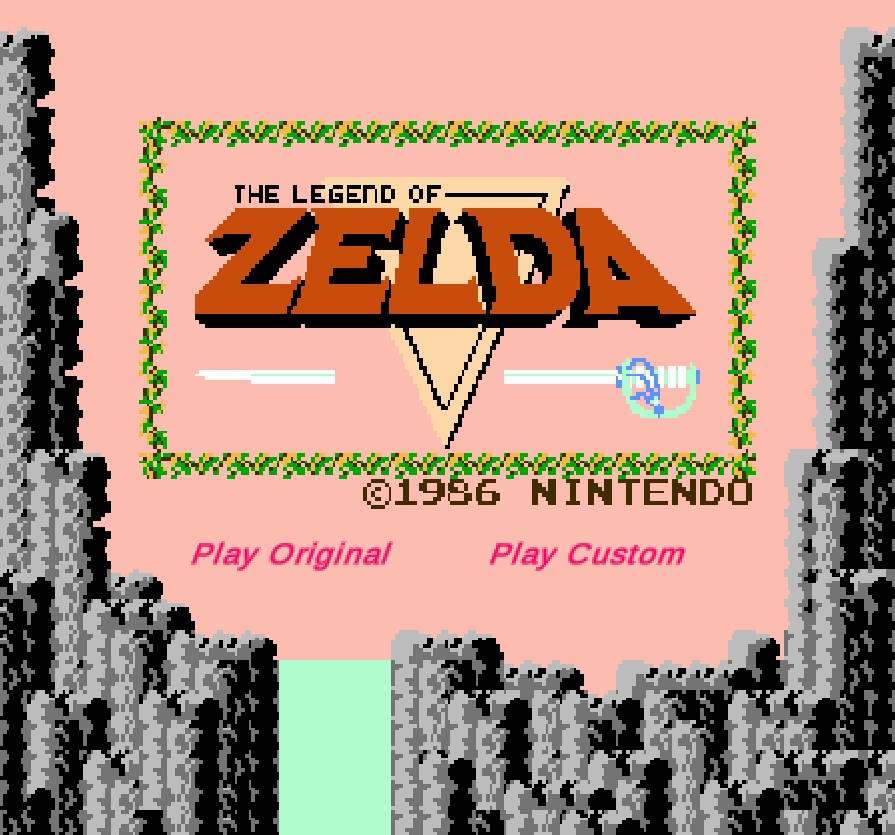
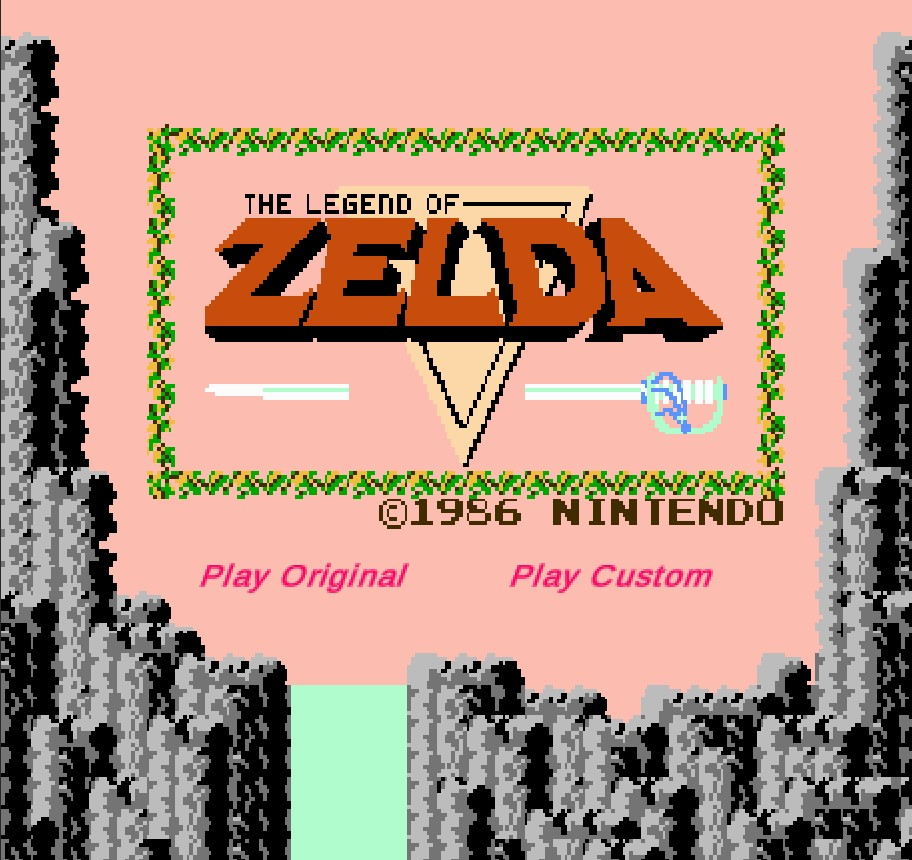
Added picture

diff --git a/legendofzelda.html b/legendofzelda.html
@@ -6,7 +6,7 @@
 -->
 <html>
 	<head>
-		<title>Generic - Hyperspace by HTML5 UP</title>
+		<title>Rushil Talla's Portfolio</title>
 		<meta charset="utf-8" />
 		<meta name="viewport" content="width=device-width, initial-scale=1, user-scalable=no" />
 		<link rel="stylesheet" href="assets/css/main.css" />
@@ -35,7 +35,7 @@
 					<section id="main" class="wrapper">
 						<div class="inner">
 							<h1 class="major">The Legend of Zelda (NES) Remake</h1>
-							<span class="image"><img src="images/ZeldaGame.jpg" width="400" height="400" alt="" /></span>
+							<span class="image fit"><img src="images/ZeldaCombined.jpg" width="400" height="400" alt="" /></span>
 							<p>This is a remake of the first dungeon, "Eagle", from the Legend of Zelda for NES. This was developed over a course of three weeks as the first project of EECS 494 at the University of Michigan.
 								The dungeon was designed to have the authenticity of the original game, with the same weapons, enemies, and mechanics. Aside from the replicating the original game, we were 
 								tasked with designing a custom level of our own that employed a new mechanic not seen in the Zelda franchise. Inspired by the thought of making a puzzle game, I

diff --git a/generic.html b/generic.html
@@ -6,7 +6,7 @@
 -->
 <html>
 	<head>
-		<title>Generic - Hyperspace by HTML5 UP</title>
+		<title>Rushil Talla's Portfolio</title>
 		<meta charset="utf-8" />
 		<meta name="viewport" content="width=device-width, initial-scale=1, user-scalable=no" />
 		<link rel="stylesheet" href="assets/css/main.css" />

diff --git a/nothing.html b/nothing.html
@@ -6,7 +6,7 @@
 -->
 <html>
 	<head>
-		<title>Generic - Hyperspace by HTML5 UP</title>
+		<title>Rushil Talla's Portfolio</title>
 		<meta charset="utf-8" />
 		<meta name="viewport" content="width=device-width, initial-scale=1, user-scalable=no" />
 		<link rel="stylesheet" href="assets/css/main.css" />

diff --git a/gamedev.html b/gamedev.html
@@ -6,7 +6,7 @@
 -->
 <html>
 	<head>
-		<title>Hyperspace by HTML5 UP</title>
+		<title>Rushil Talla's Portfolio</title>
 		<meta charset="utf-8" />
 		<meta name="viewport" content="width=device-width, initial-scale=1, user-scalable=no" />
 		<link rel="stylesheet" href="assets/css/main.css" />

diff --git a/index.html b/index.html
@@ -6,7 +6,7 @@
 -->
 <html>
 	<head>
-		<title>Hyperspace by HTML5 UP</title>
+		<title>Rushil Talla's Portfolio</title>
 		<meta charset="utf-8" />
 		<meta name="viewport" content="width=device-width, initial-scale=1, user-scalable=no" />
 		<link rel="stylesheet" href="assets/css/main.css" />
